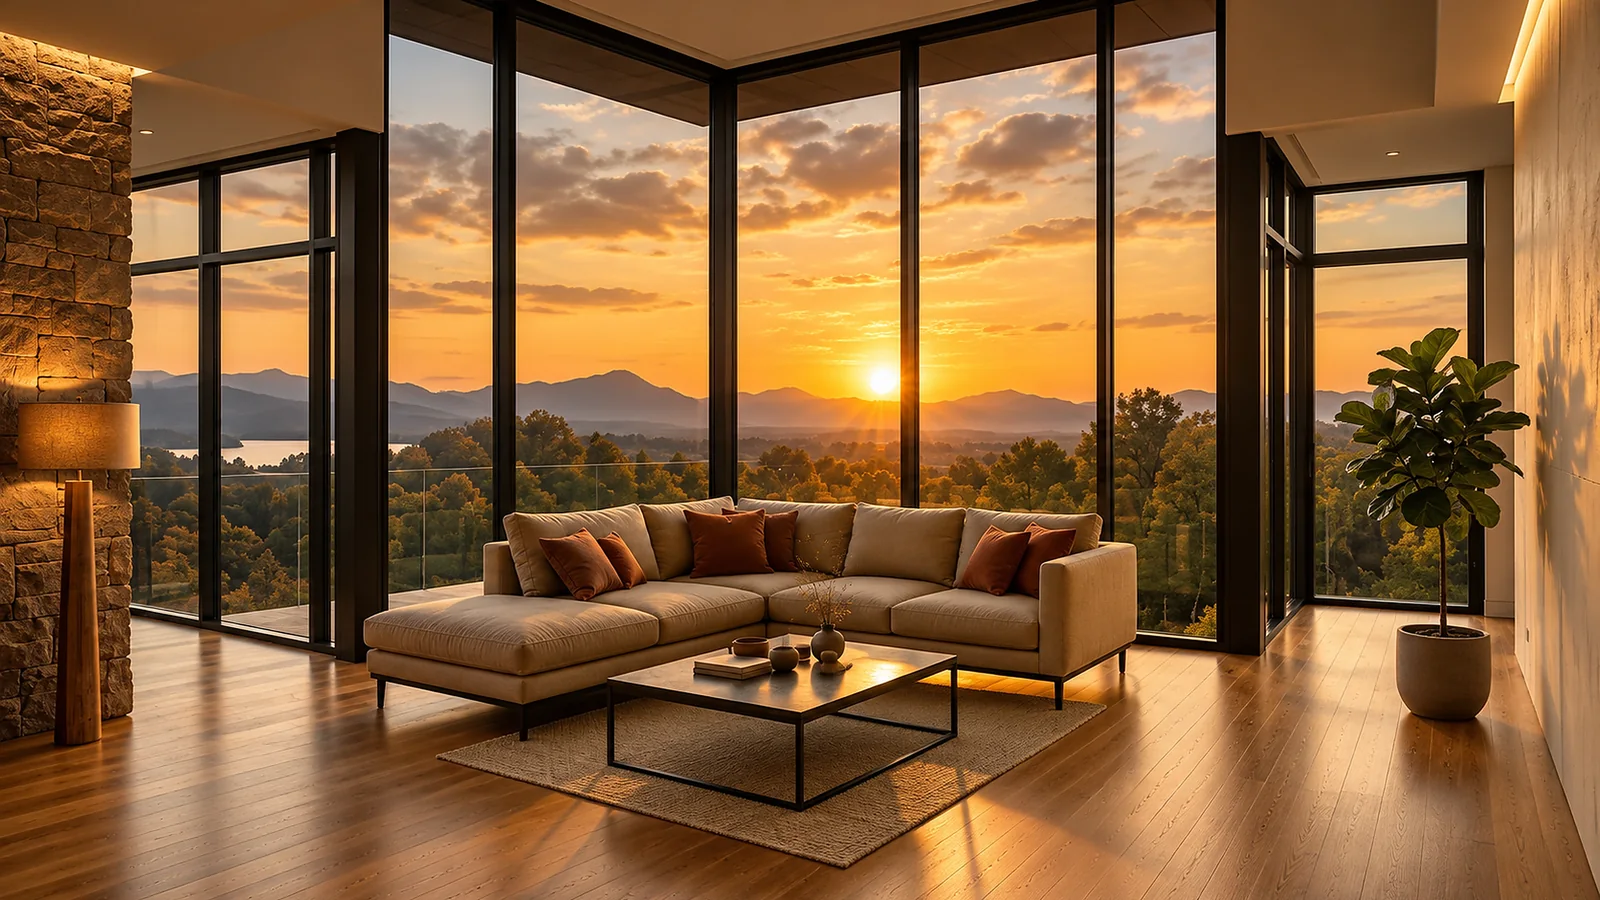
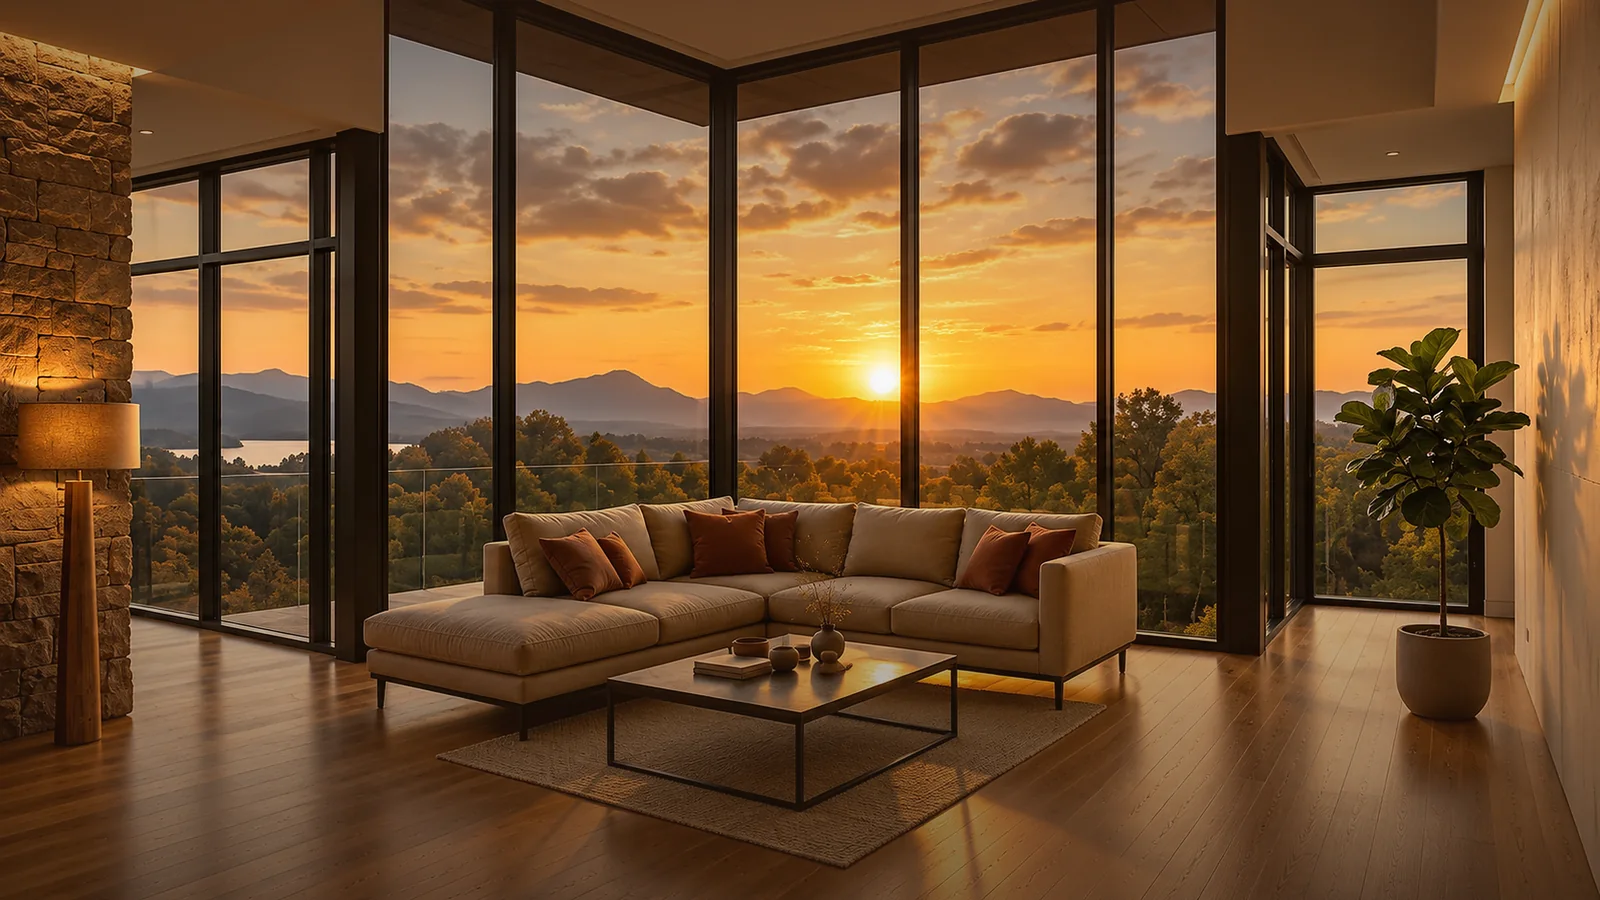
Add files via upload

diff --git a/index.html b/index.html
@@ -4,6 +4,7 @@
 <meta charset="utf-8">
 <meta name="viewport" content="width=device-width, initial-scale=1, viewport-fit=cover">
 <title>Lumen Estate — Дім, у якому світло</title>
+<meta name="theme-color" content="#1A120C" media="(max-width:820px)">
 <meta name="description" content="Бутикове агентство нерухомості у Львові та Києві. Підбираємо житло за світлом.">
 <script>document.documentElement.classList.add('js')</script>
 <link rel="preconnect" href="https://fonts.googleapis.com">
@@ -43,12 +44,16 @@ h2 em{font-style:normal;color:var(--accent)}
 .menu-open .burger span:last-child{top:21px;transform:rotate(-45deg)}
 /* hero */
 .hero{position:relative;isolation:isolate;overflow:hidden;margin:12px clamp(12px,1.6vw,20px) 0;border-radius:clamp(24px,3vw,36px);min-height:max(640px,min(900px,100svh - 24px));color:#fff;display:flex}
-.hero .bg{position:absolute;inset:0;width:100%;height:100%;object-fit:cover;object-position:55% 50%;z-index:-2}
-.shade{position:absolute;inset:0;z-index:-1;background:linear-gradient(to bottom,rgba(60,35,20,.45),rgba(60,35,20,0) 40%,rgba(40,25,15,.6))}
+.media{position:absolute;inset:0;container-type:size;overflow:hidden;pointer-events:none}
+.m-bg{z-index:-2}.m-fg{z-index:2}
+.stage{--w:max(100cqw,calc(100cqh*1.7778));--h:max(100cqh,calc(100cqw*.5625));position:absolute;width:var(--w);height:var(--h);left:calc((100cqw - var(--w))*.55);top:calc((100cqh - var(--h))*.5)}
+.stage picture{display:block;width:100%;height:100%}
+.stage .bg{display:block;width:100%;height:100%}
+.stage .sofa{position:absolute;left:22.7865%;top:54.9074%;width:48.2552%;height:17.3148%}
 .hero-in{width:100%;max-width:1400px;margin:0 auto;padding:clamp(96px,12vw,130px) clamp(20px,3.4vw,48px) clamp(24px,3vw,40px);display:flex;flex-direction:column;justify-content:space-between;gap:48px}
-.big{font-size:clamp(68px,16.5vw,230px);line-height:.86;letter-spacing:-.05em}
-.big .ln{display:block}.big .l2{margin-left:6vw;font-weight:300}
-.hero-bot{display:flex;flex-wrap:wrap;gap:28px;justify-content:space-between;align-items:flex-end}
+.big{font-size:clamp(68px,16.5vw,230px);line-height:.86;letter-spacing:-.05em;position:relative;z-index:1}
+.big .ln{display:block}.big .l2{margin-left:6vw;font-weight:300;position:relative;top:.36em}
+.hero-bot{position:relative;z-index:3;display:flex;flex-wrap:wrap;gap:28px;justify-content:space-between;align-items:flex-end}
 .copy{max-width:520px}
 .tag{font-size:clamp(26px,3.4vw,46px);line-height:1.05;font-weight:500;text-transform:uppercase;letter-spacing:-.02em}
 .copy p{margin:14px 0 24px;opacity:.94}
@@ -102,9 +107,9 @@ footer b{color:var(--ink)}
 .js .big .ln{overflow:hidden;padding-bottom:.04em}
 .js .big .ln span{display:inline-block;transform:translateY(108%);transition:transform 1.2s cubic-bezier(.2,.7,.1,1)}
 .js .big .l2 span{transition-delay:.12s}
-.js .hero .bg{transform:scale(1.05);transition:transform 2.6s cubic-bezier(.2,.7,.1,1)}
+.js .hero .media{transform:scale(1.05);transition:transform 2.6s cubic-bezier(.2,.7,.1,1)}
 .js .hero .fade{opacity:0;transform:translateY(22px);transition:opacity 1s .55s,transform 1s .55s}
-.loaded .big .ln span,.loaded .hero .bg,.loaded .hero .fade{transform:none;opacity:1}
+.loaded .big .ln span,.loaded .hero .media,.loaded .hero .fade{transform:none;opacity:1}
 /* loader */
 .ld{position:fixed;inset:0;z-index:100;color:#F5EBDD;animation:ldx 0s 3.7s forwards}
 @keyframes ldx{to{visibility:hidden}}
@@ -145,6 +150,8 @@ footer b{color:var(--ink)}
 .oh .btn{width:100%;text-align:center}
 .copy .btn,.form button{width:100%;text-align:center}
 }
+/* mobile: espresso-brown page background */
+@media (max-width:820px){:root,:root[data-theme="light"]{--bg:#1A120C;--ink:#F5EBDD;--muted:#CDB8A3;--accent:#D9A06B}}
 @media (prefers-reduced-motion:reduce){.ld{display:none}*{animation:none!important;transition:none!important}html{scroll-behavior:auto}}
 </style>
 </head>
@@ -160,8 +167,8 @@ footer b{color:var(--ink)}
 
 <main>
 <section class="hero" id="top" style="margin-top:12px">
-<picture><source type="image/webp" srcset="assets/hero-900.webp 900w, assets/hero-1600.webp 1600w, assets/hero-2560.webp 2560w, assets/hero-3840.webp 3840w" sizes="(max-width:820px) 300vw, 100vw"><img class="bg" src="assets/hero-fallback.jpg" width="3840" height="2160" fetchpriority="high" decoding="async" alt="Вітальня з панорамними вікнами, кам’яною стіною та заходом сонця над горами"></picture>
-<div class="shade"></div>
+<div class="media m-bg"><div class="stage"><picture><source type="image/webp" srcset="assets/hero-900.webp 900w, assets/hero-1600.webp 1600w, assets/hero-2560.webp 2560w, assets/hero-3840.webp 3840w" sizes="(max-width:820px) 300vw, 100vw"><img class="bg" src="assets/hero-fallback.jpg" width="3840" height="2160" fetchpriority="high" decoding="async" alt="Вітальня з панорамними вікнами, кам’яною стіною та заходом сонця над горами"></picture></div></div>
+<div class="media m-fg" aria-hidden="true"><div class="stage"><img class="sofa" src="assets/hero-sofa.webp" alt="" decoding="async"></div></div>
 <div class="hero-in">
 <h1 class="big"><span class="ln"><span>Lumen</span></span><span class="ln l2"><span>Light</span></span></h1>
 <div class="hero-bot">
